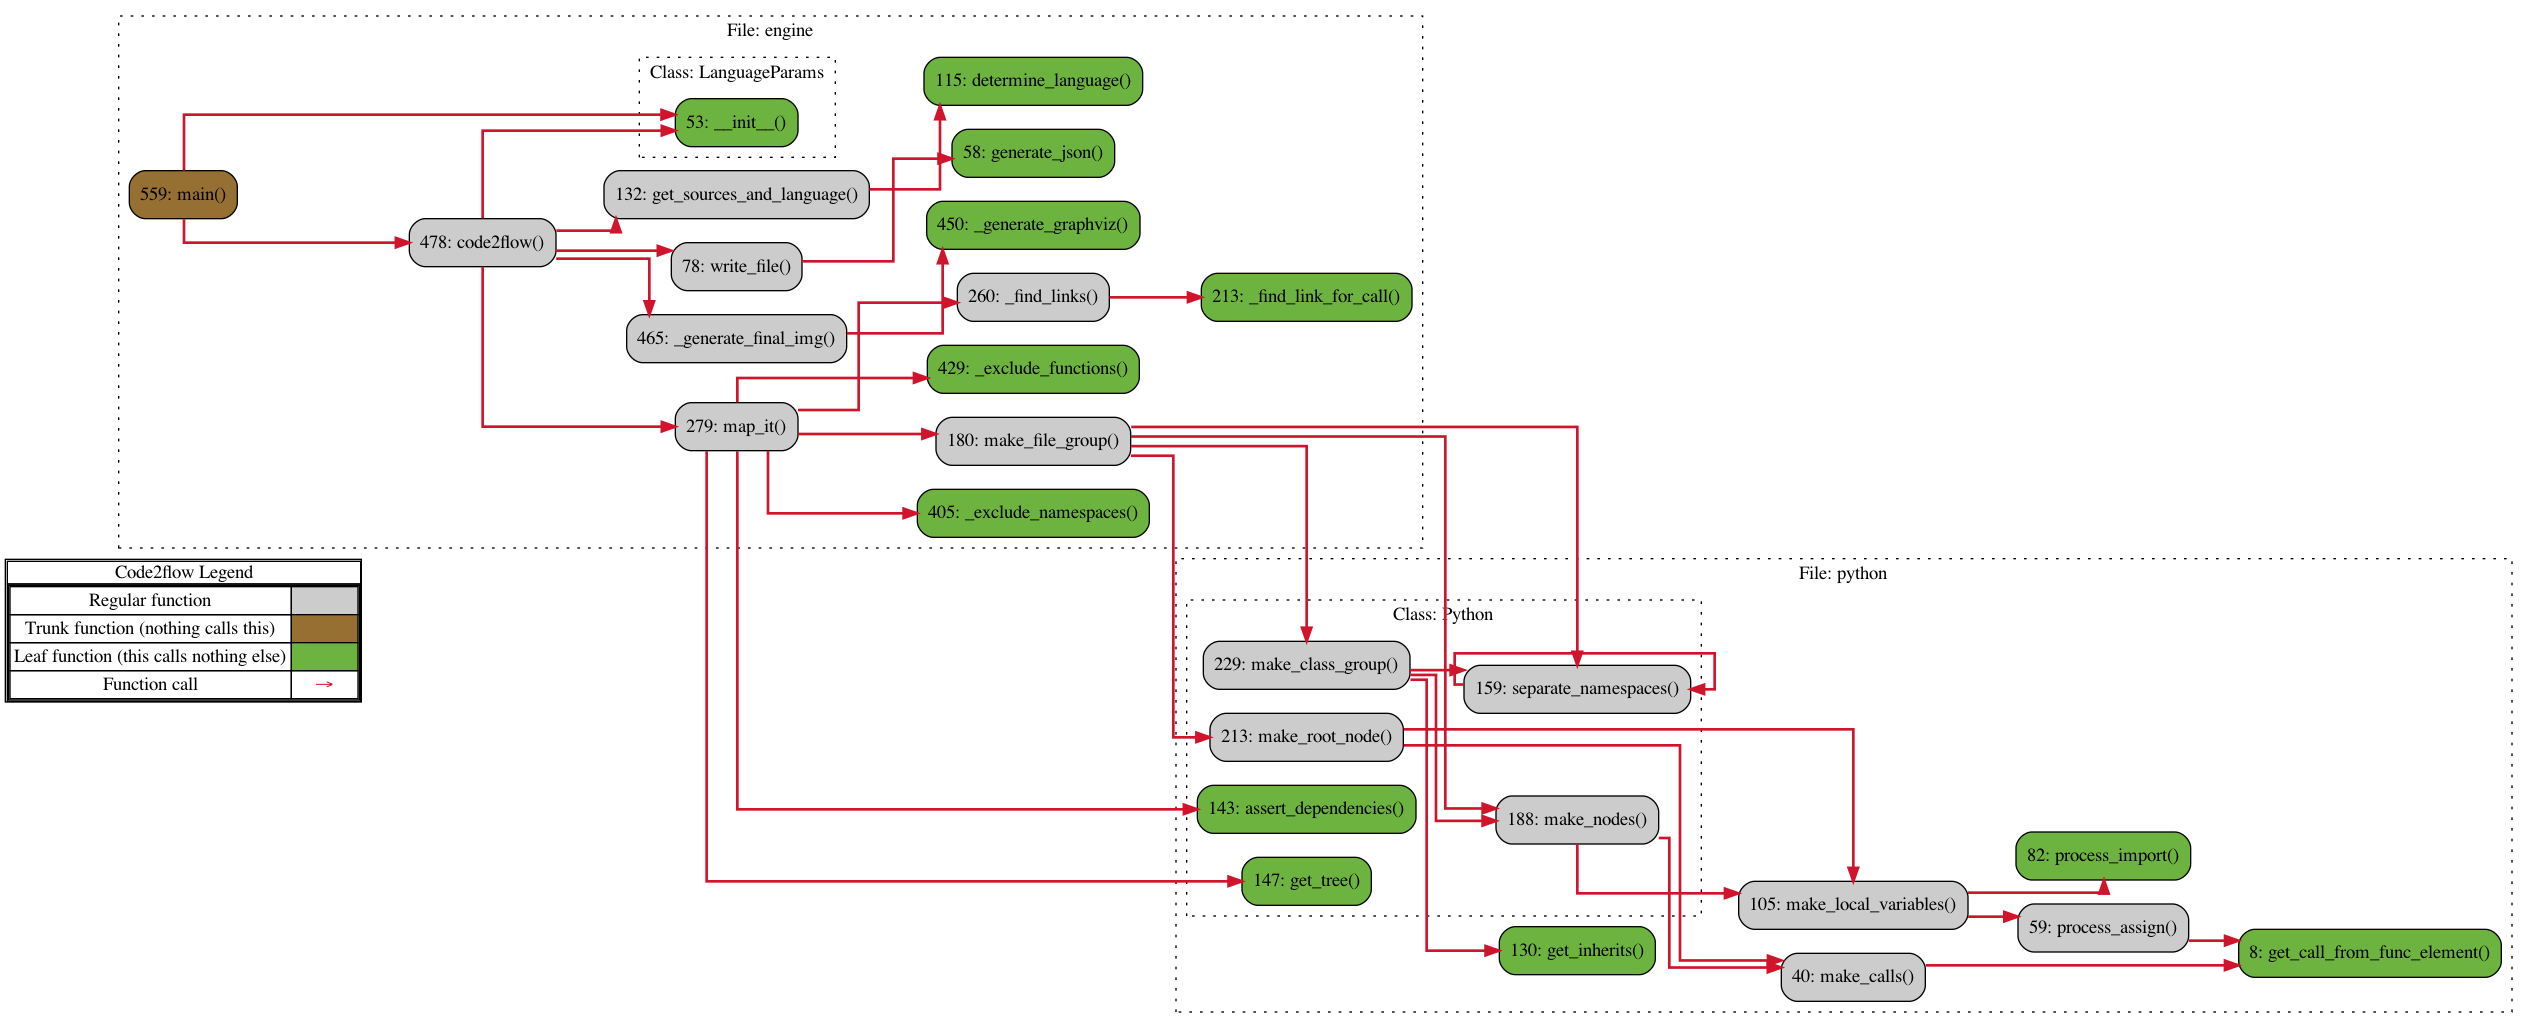
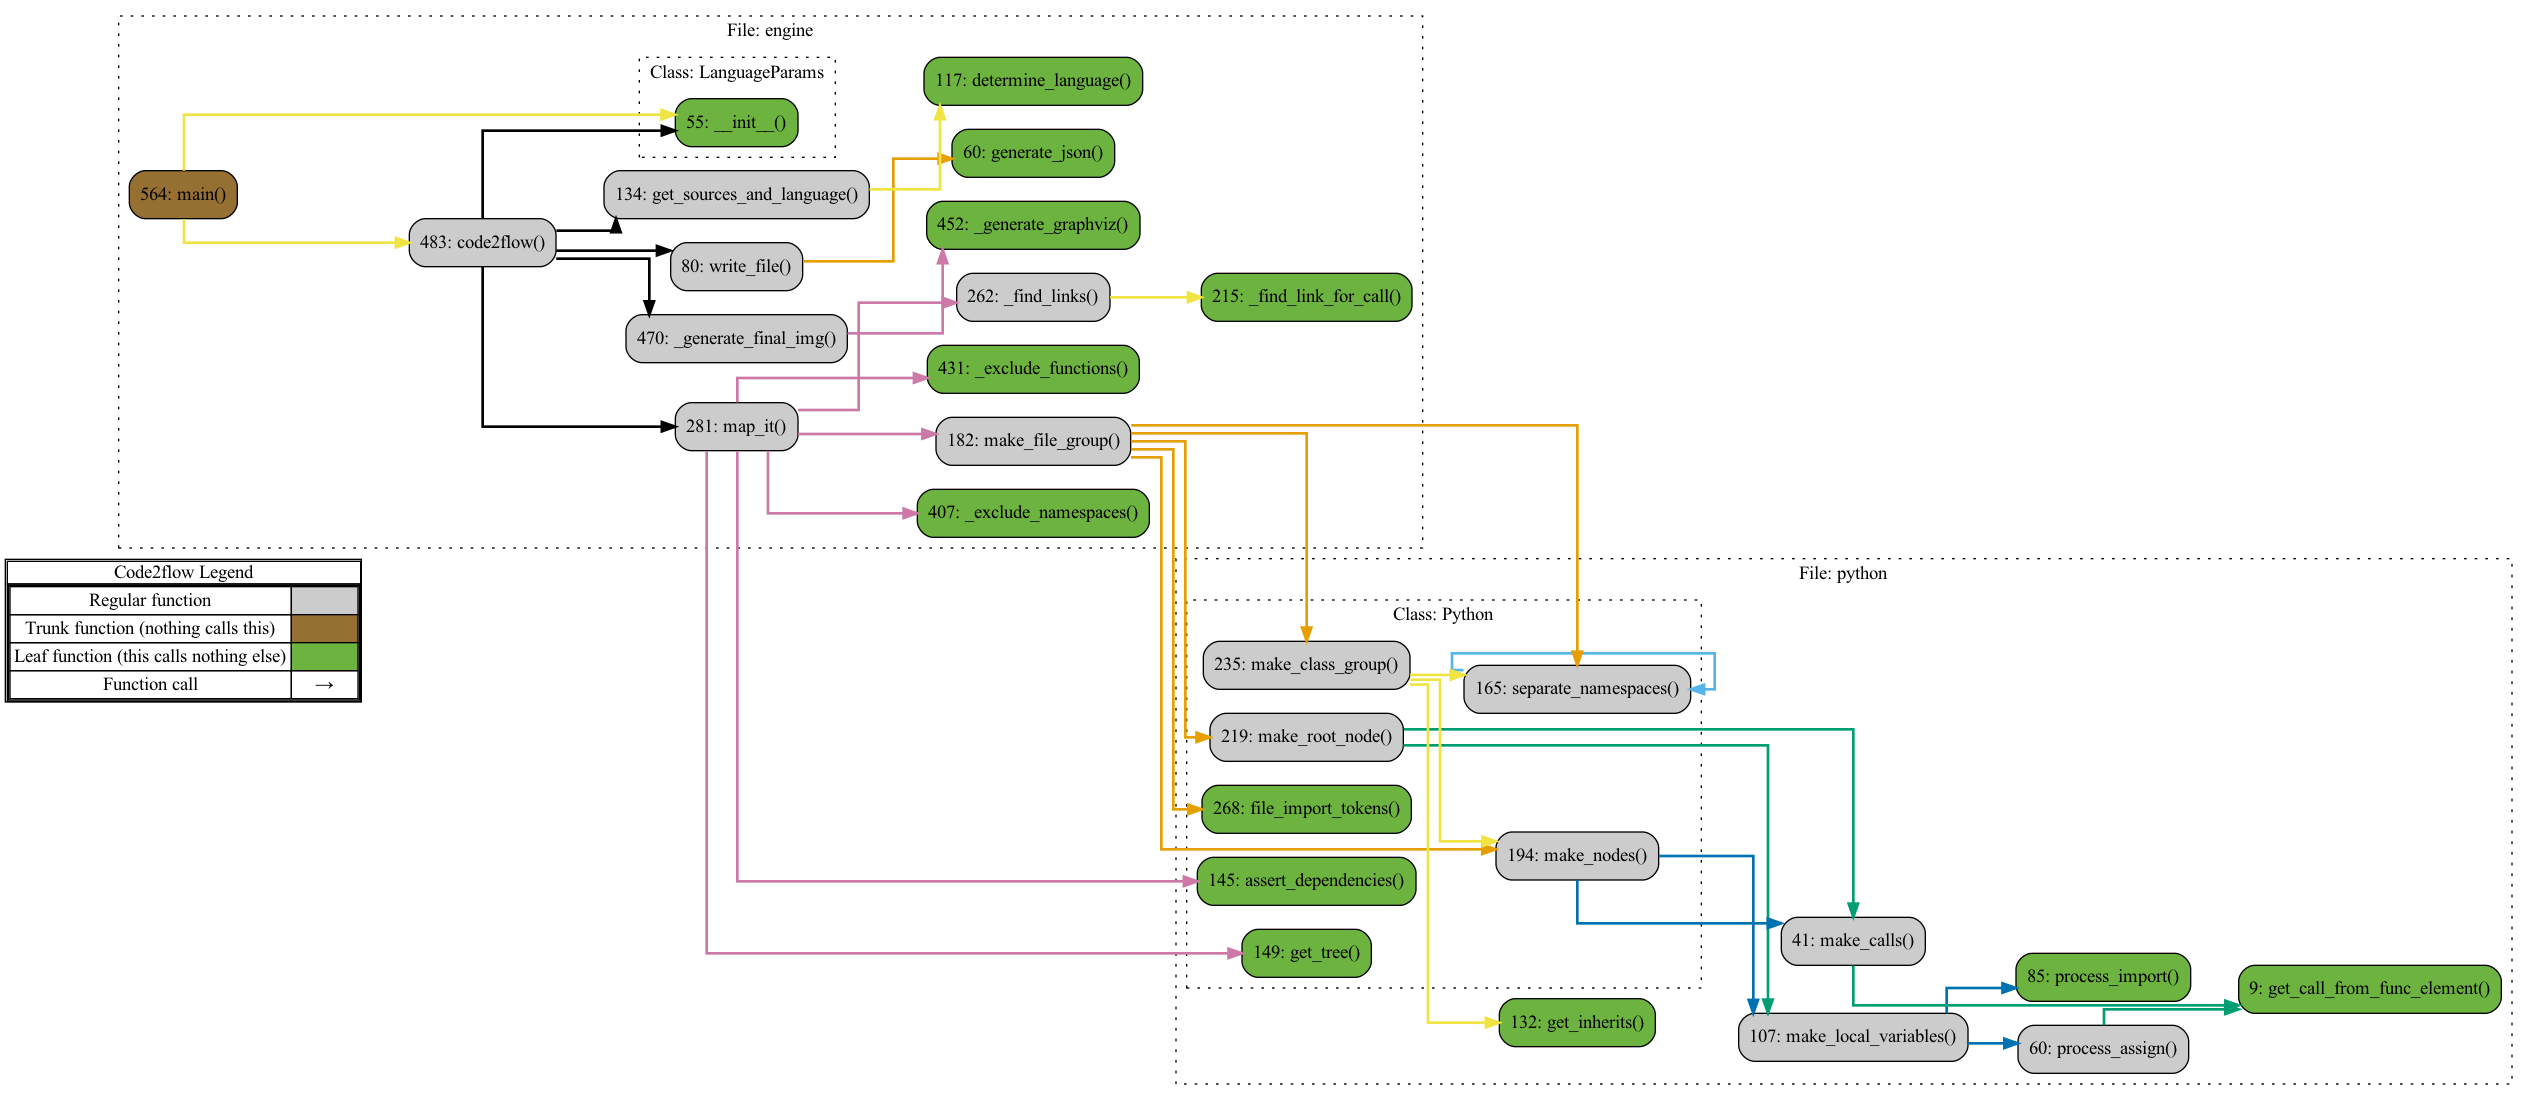
version bump 2.3.1

diff --git a/setup.py b/setup.py
@@ -3,7 +3,7 @@ from setuptools import setup
 from code2flow.engine import VERSION
 
 url_base = 'https://github.com/scottrogowski/code2flow'
-download_url = '%s/archive/fastmap-%s.tar.gz' % (url_base, VERSION)
+download_url = '%s/archive/code2flow-%s.tar.gz' % (url_base, VERSION)
 
 setup(
     name='code2flow',

diff --git a/code2flow/engine.py b/code2flow/engine.py
@@ -14,7 +14,7 @@ from .php import PHP
 from .model import (TRUNK_COLOR, LEAF_COLOR, NODE_COLOR, GROUP_TYPE, OWNER_CONST,
                     Edge, Group, Node, Variable, is_installed, flatten)
 
-VERSION = '2.3.0'
+VERSION = '2.3.1'
 
 IMAGE_EXTENSIONS = ('png', 'svg')
 TEXT_EXTENSIONS = ('dot', 'gv', 'json')

diff --git a/README.md b/README.md
@@ -1,6 +1,6 @@
 ![code2flow logo](https://raw.githubusercontent.com/scottrogowski/code2flow/master/assets/code2flowlogo.png)
 
-![Version 2.3.0](https://img.shields.io/badge/version-2.3.0-brightgreen) ![Build passing](https://img.shields.io/badge/build-passing-brightgreen) ![Coverage 100%](https://img.shields.io/badge/coverage-100%25-brightgreen) ![License MIT](https://img.shields.io/badge/license-MIT-green])
+![Version 2.3.1](https://img.shields.io/badge/version-2.3.0-brightgreen) ![Build passing](https://img.shields.io/badge/build-passing-brightgreen) ![Coverage 100%](https://img.shields.io/badge/coverage-100%25-brightgreen) ![License MIT](https://img.shields.io/badge/license-MIT-green])
 
 Code2flow generates [call graphs](https://en.wikipedia.org/wiki/Call_graph) for dynamic programming language. Code2flow supports Python, Javascript, Ruby, and PHP.
 
@@ -82,7 +82,7 @@ Detailed algorithm:
 1. Generate an AST of the source code
 2. Recursively separate groups and nodes. Groups are files, modules, or classes. More precisely, groups are namespaces where functions live. Nodes are the functions themselves.
 3. For all nodes, identify function calls in those nodes.
-4. For all nodes, identify in-scope variables. Attempt to connect those variables to specific nodes and groups. This is where there is some ambiguity in the algorithm because it is possible to know the types of variables in dynamic languages. So, instead, heuristics must be used.
+4. For all nodes, identify in-scope variables. Attempt to connect those variables to specific nodes and groups. This is where there is some ambiguity in the algorithm because it is impossible to know the types of variables in dynamic languages. So, instead, heuristics must be used.
 5. For all calls in all nodes, attempt to find a match from the in-scope variables. This will be an edge.
 6. If a definitive match from in-scope variables cannot be found, attempt to find a single match from all other groups and nodes.
 7. Trim orphaned nodes and groups.

diff --git a/CHANGELOG.md b/CHANGELOG.md
@@ -1,5 +1,11 @@
 # Code2flow CHANGELOG
 
+## [2.3.1] - 2021-12-13
+- Colored edges
+- Improve dependency robustness
+- Fixes for two Python bugs
+- Small textual improvements
+
 ## [2.3.0] - 2021-10-11
 Fix a few rare javascript bugs. Fix non-UTF8 encoding issue for Python. Better debugging.
 
